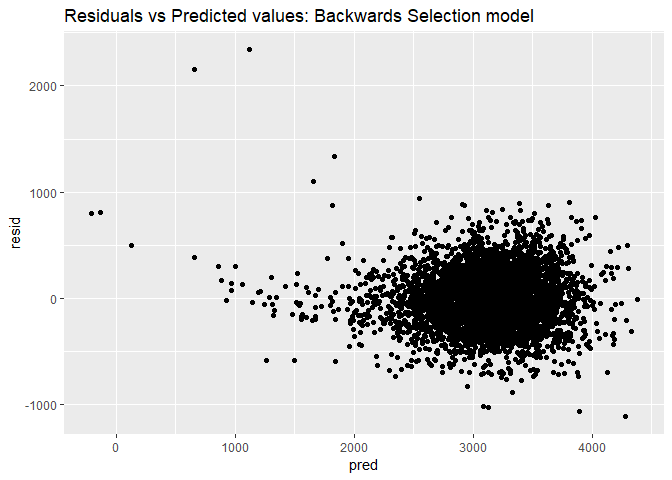
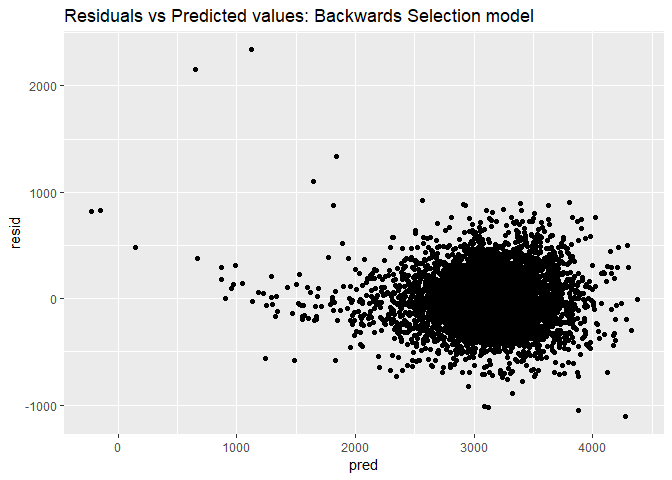
Finished Problem One

diff --git a/Hw6_ntk2109_markdown.md b/Hw6_ntk2109_markdown.md
@@ -3,7 +3,7 @@ HW6\_ntk2109\_Markdown
 Noah Kreski
 November 20, 2018
 
-### Problem One: Baltimore Regression
+### Problem One: Homicide Regression
 
 ``` r
  #I am creating city_state, eliminating data errors and unnecessary city-states, convert age to numeric, and applying a true/false statement to non-unknown race
@@ -49,10 +49,12 @@ Race_se = (coef(summary(fit_logistic))[3, 2])
 The odds ratio for solving homicides comparing non-white victims to white victims, controlling for age and sex, in Baltimore, Md is .440608, with a 95% confidence interval of (.3129079, .6204234).
 
 ``` r
-#I am modeling the solved outcome for Baltimore logistically.
+odds_function = function(x) {
+  
+  #I am modeling the solved outcome for every city logistically.
 fit_logistic = 
   Washington_data%>% 
-  filter(city_state == "Baltimore,MD")%>%
+  filter(city_state == x)%>%
   glm(Solved ~ victim_age + victim_race + victim_sex, data = ., family = binomial()) 
 #I am getting the standard error for the regression coefficient of race
 Race_se = (coef(summary(fit_logistic))[3, 2])
@@ -65,14 +67,47 @@ Race_se = (coef(summary(fit_logistic))[3, 2])
   mutate(conf_higher = exp(estimate + 1.96 * Race_se))%>%
   select(term, log_OR = estimate, OR, conf_lower, conf_higher)%>%
   filter(term == "victim_raceNon-White")
+}
+#This code will iterate the function over all cities, produce a column with tibbles, and unnest to generate proportions and CIs for every city.
+city_list = c(unique(Washington_data$city_state))
+city_df = tibble(city_list,
+map(city_list, odds_function)) %>%
+unnest()
+
+city_df
 ```
 
-    ## # A tibble: 1 x 5
-    ##   term                 log_OR    OR conf_lower conf_higher
-    ##   <chr>                 <dbl> <dbl>      <dbl>       <dbl>
-    ## 1 victim_raceNon-White -0.820 0.441      0.313       0.620
+    ## # A tibble: 47 x 6
+    ##    city_list      term                  log_OR    OR conf_lower conf_higher
+    ##    <chr>          <chr>                  <dbl> <dbl>      <dbl>       <dbl>
+    ##  1 Albuquerque,NM victim_raceNon-White -0.302  0.739     0.447        1.22 
+    ##  2 Atlanta,GA     victim_raceNon-White -0.284  0.753     0.432        1.31 
+    ##  3 Baltimore,MD   victim_raceNon-White -0.820  0.441     0.313        0.620
+    ##  4 Baton Rouge,LA victim_raceNon-White -0.404  0.668     0.313        1.43 
+    ##  5 Birmingham,AL  victim_raceNon-White  0.0385 1.04      0.615        1.76 
+    ##  6 Boston,MA      victim_raceNon-White -2.15   0.116     0.0480       0.282
+    ##  7 Buffalo,NY     victim_raceNon-White -0.936  0.392     0.214        0.719
+    ##  8 Charlotte,NC   victim_raceNon-White -0.584  0.558     0.321        0.969
+    ##  9 Chicago,IL     victim_raceNon-White -0.576  0.562     0.431        0.733
+    ## 10 Cincinnati,OH  victim_raceNon-White -1.14   0.318     0.184        0.551
+    ## # ... with 37 more rows
+
+The above data frame provides the odds ratios for solving homicides comparing non-white to white victims, both as a log estimate and the odds ratio, with confidence intervals.
+
+``` r
+city_df%>%
+mutate(city_list = forcats::fct_reorder(city_list, OR))%>%
+#I am creating a visual with proportions by location, with error bars, and formatting appropriately.
+ggplot( aes(x = city_list, y = OR, group = city_list)) + geom_point() +theme(axis.text.x = element_text(angle = 70, hjust = 1)) + geom_errorbar( mapping=aes(x=city_list, ymin=conf_lower, ymax=conf_higher))+labs(title = "ORs for Solved Homicides, NonWhite vs White Victim, Adjusted by Sex/Age", x = "Location", y = "Odds Ratio")
+```
+
+![](Hw6_ntk2109_markdown_files/figure-markdown_github/graph%20OR%20cities-1.png)
+
+This plot shows the adjusted odds ratios comparing Nonwhite to White homicide victims in terms of their homicides being solved. Overwhelmingly, Non-White victims were less likely to have their homicides solved than White victims, and approximately half of these odds ratios had a confidence interval that did not contain the null value, an odds ratio of 1.00. This provides consistent evidence of disparities in this outcome.
 
 ### Problem Two: Child Birthweight Models
+
+To begin, I will conduct a backwards regression on the full set of variables. While this may be less thorough than other methods in isolation, it is only to supply a reasonable subset of variables that are critical to the outcome in question, which will then be honed with theory and conceptual edits.
 
 ``` r
 #I am getting the data with appropriate formats
@@ -118,12 +153,18 @@ birthweight_data %>%
 
 Following data loading and tidying, creating factors where necessary, I used a backwards selection model to attain a final regression model for these data. Every step I took away to predictor with the highest p-value until all variables had a p&lt;.05, or multiple factor levels below that threshold. This final model has 13 predictors including baby sex, head circumference at birth in cm, length at birth in cm, mother's weight at delivery in pounds, gestational age in weeks, mother's height, mother's race, number of live births prior to this pregnancy, previous number of low birth weight babies, number of prior small for gestational age babies, mother's pre-pregnancy weight, average number of cigarettes smoked per day during pregnancy and weight gain during pregnancy.
 
+However, it is worth asking conceptually what may be missing from this model. Prior research has shown that there may be an interaction between a baby's sex and growth timeline \[see citation below\], and so an interaction term between sex amd gestational age is a potentially worthwhile addition to this model.
+
+Citation : Broere-Brown, Z. A., Baan, E., Schalekamp-Timmermans, S., Verburg, B. O., Jaddoe, V. W., & Steegers, E. A. (2016). Sex-specific differences in fetal and infant growth patterns: a prospective population-based cohort study. Biology of sex differences, 7, 65. <doi:10.1186/s13293-016-0119-1>
+
+Additionally, a smaller gestational age may be more of a concern for low birth weight in mothers with a higher number of prior "small for gestational age" births, and so an interaction term between gaweeks and pnumsga is warranted.
+
 ``` r
 #I'm creating the needed data set again in a chunk where eval does not equal False
 birthweight_data = read_csv("./data/birthweight.csv")%>%
                    mutate(babysex = as.factor(babysex), frace = as.factor(frace), malform = as.factor(malform), mrace = as.factor(mrace))
 #I'm assigning my final model to fit
-fit = lm(bwt ~ babysex + bhead + blength + delwt + gaweeks + mheight + mrace +parity + pnumlbw + pnumsga + ppwt + smoken + wtgain, data = birthweight_data)
+fit = lm(bwt ~ babysex + blength + bhead + delwt + gaweeks + mheight + mrace +parity + pnumlbw + pnumsga + ppwt + smoken + wtgain + babysex*gaweeks + gaweeks*pnumsga, data = birthweight_data)
 #I am plotting the predictions and residuals
 birthweight_data%>%
   modelr::add_predictions(fit)%>%
@@ -174,10 +215,10 @@ cv_df %>% pull(train) %>% .[[1]] %>% as_tibble
     ##  1 2          34      51  3629   177      35 1        39.9 0             13
     ##  2 1          34      48  3062   156      65 2        25.9 0             14
     ##  3 2          36      50  3345   148      85 1        39.9 0             12
-    ##  4 2          34      52  3374   156       5 1        41.6 0             13
-    ##  5 2          33      46  2523   126      96 2        40.3 0             14
-    ##  6 2          33      49  2778   140       5 1        37.4 0             12
-    ##  7 1          36      52  3515   146      85 1        40.3 0             11
+    ##  4 1          34      52  3062   157      55 1        40   0             14
+    ##  5 2          34      52  3374   156       5 1        41.6 0             13
+    ##  6 1          33      52  3374   129      55 1        40.7 0             12
+    ##  7 2          33      46  2523   126      96 2        40.3 0             14
     ##  8 1          33      50  3459   169      75 2        40.7 0             12
     ##  9 2          35      51  3317   130      55 1        43.4 0             13
     ## 10 1          35      51  3459   146      55 1        39.4 0             12
@@ -192,15 +233,15 @@ cv_df %>% pull(test) %>% .[[1]] %>% as_tibble
     ## # A tibble: 869 x 20
     ##    babysex bhead blength   bwt delwt fincome frace gaweeks malform menarche
     ##    <fct>   <int>   <int> <int> <int>   <int> <fct>   <dbl> <fct>      <int>
-    ##  1 1          34      52  3062   157      55 1        40   0             14
-    ##  2 1          33      52  3374   129      55 1        40.7 0             12
+    ##  1 2          33      49  2778   140       5 1        37.4 0             12
+    ##  2 1          36      52  3515   146      85 1        40.3 0             11
     ##  3 1          35      51  3544   129      65 1        39.6 0             12
-    ##  4 2          33      49  2551   120      75 2        38.1 0             11
-    ##  5 1          35      56  3232   147      55 1        42.1 0             13
-    ##  6 1          35      51  3345   145      75 1        41.3 0             12
-    ##  7 2          35      51  3827   130      45 1        41.3 0             12
-    ##  8 1          38      53  3799   167      75 1        39.9 0             12
-    ##  9 2          33      54  3062   134      65 1        40.4 0             12
+    ##  4 2          35      57  3374   147      45 1        39.6 0             12
+    ##  5 1          34      52  3203   134      25 1        41.1 0             14
+    ##  6 2          34      52  3629   112      25 1        38   0             10
+    ##  7 1          36      54  3402   161      95 1        40.1 0             11
+    ##  8 2          33      54  3062   134      65 1        40.4 0             12
+    ##  9 1          35      55  3856   171      85 1        41.1 0             13
     ## 10 1          35      53  3175   130      45 1        40.4 0             13
     ## # ... with 859 more rows, and 10 more variables: mheight <int>,
     ## #   momage <int>, mrace <fct>, parity <int>, pnumlbw <int>, pnumsga <int>,
@@ -214,7 +255,7 @@ cv_df =
 #I am using my various models in cross-validation examining each model with the train set, and then examining RMSE with the test set
 cv_df = 
   cv_df %>% 
-  mutate( fit = map(train, ~lm(bwt ~ babysex + bhead + blength + delwt + gaweeks + mheight + mrace +parity + pnumlbw + pnumsga + ppwt + smoken + wtgain, data = .x)),
+  mutate( fit = map(train, ~lm(bwt ~ babysex + blength + bhead +  delwt + gaweeks + mheight + mrace +parity + pnumlbw + pnumsga + ppwt + smoken + wtgain + babysex*gaweeks + gaweeks*pnumsga, data = .x)),
          fit_length_age = map(train, ~lm(bwt ~ blength + gaweeks, data = .x)),
          fit_circumference_length_sex = map(train, ~lm(bwt ~ bhead + blength + babysex + bhead*blength + bhead*babysex + blength*babysex + bhead*blength*babysex, data = .x))) %>% 
   mutate(rmse_fit    = map2_dbl(fit, test, ~rmse(model = .x, data = .y)),
